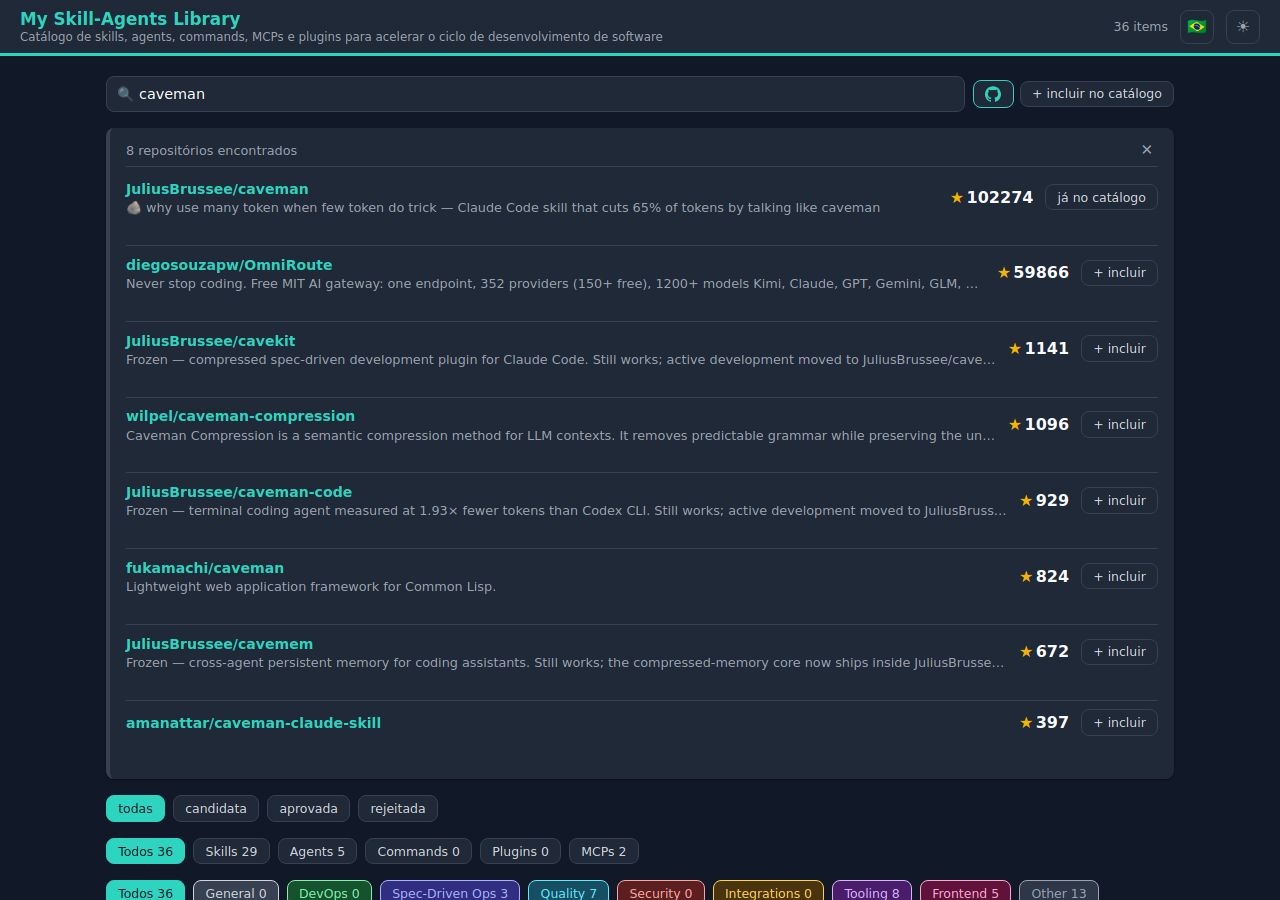
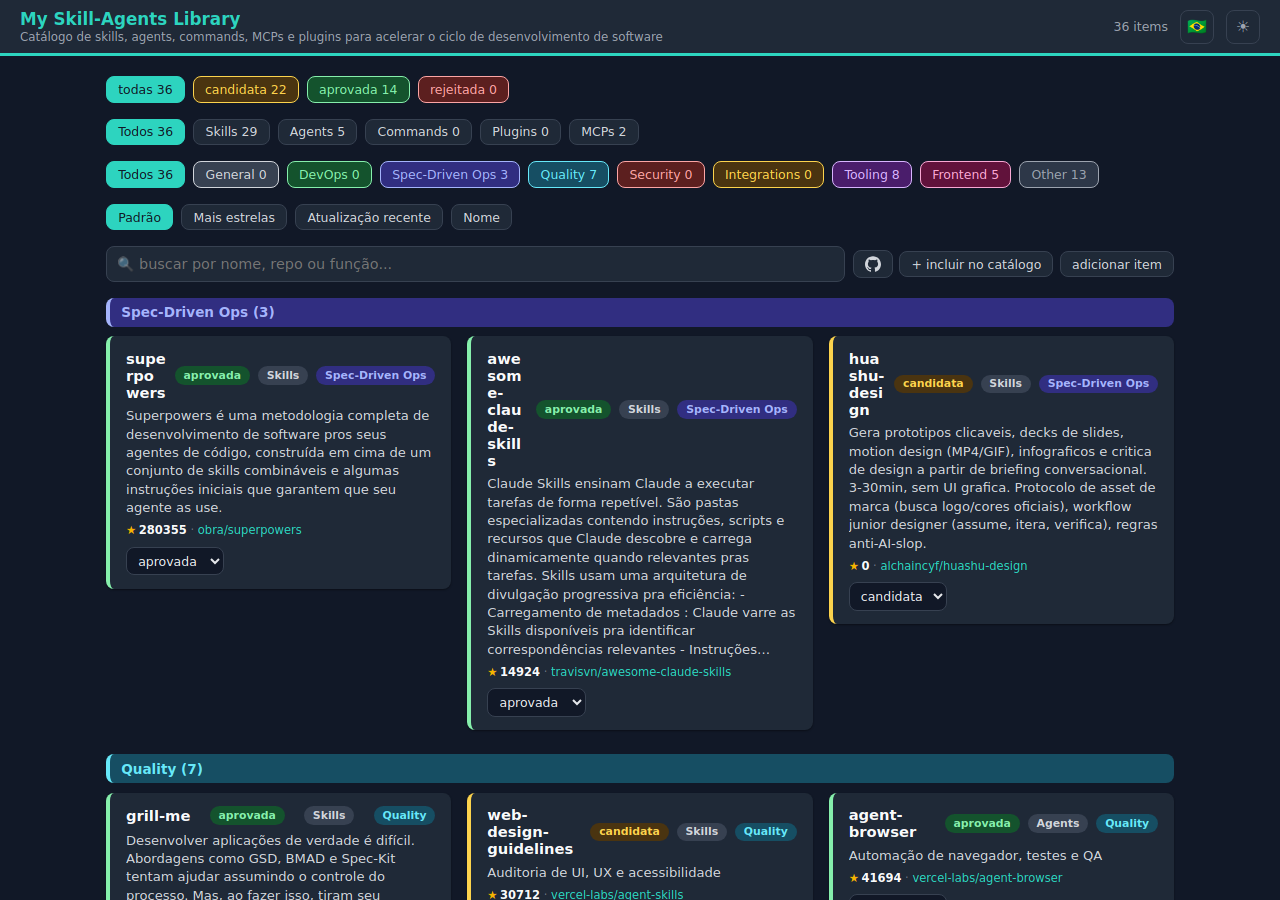
feat: color-code status pills, move search below pills, modal add-item
- status filter pills (candidata/aprovada/rejeitada) now colored like
  their card badge, same treatment purpose pills already had
- search box moved below the status/kind/purpose/sort pills
- add-item form is now a modal (matching the item-edit modal) opened
  via a new "adicionar item" button next to the existing
  "+ incluir no catálogo" quick-add, instead of a permanent inline form
- refreshed README screenshots and description to match

Claude-Session: https://claude.ai/code/session_015HJhdv2NVHp8ftTBC2Pkqs

Changed region(s): [[0.0625, 0.0622, 0.9375, 1.0], [0.0938, 0.7778, 0.3125, 0.8089], [0.75, 0.0933, 0.9062, 0.1244]]

diff --git a/src/generator.py b/src/generator.py
@@ -245,6 +245,8 @@ let ghError = "";
 let ghAddedRepos = {}; // full_name -> true, for "already added" state after a quick-add
 let sortBy = "default";
 let openModalId = null; // id of the item whose modal is open, or null
+let addModalOpen = false; // whether the "adicionar item" modal is open
+let addModalPrefillName = ""; // name to prefill when opening it from a search
 
 // ---- tema: claro/escuro/auto, persistido em localStorage -----------------
 function currentTheme() {
@@ -427,17 +429,32 @@ function renderSearchBox() {
   addBtn.type = "button";
   addBtn.className = "btn btn-sm search-add-btn";
   addBtn.textContent = t("addToCatalog");
-  addBtn.onclick = () => {
-    const nameInput = document.getElementById("add-field-name");
-    const form = document.getElementById("add-form");
-    if (nameInput && !nameInput.value) nameInput.value = searchQuery.trim();
-    if (form) form.scrollIntoView({ behavior: "smooth", block: "center" });
-    if (nameInput) nameInput.focus();
-  };
+  addBtn.onclick = () => openAddModal(searchQuery.trim());
   actions.appendChild(addBtn);
+
+  const newItemBtn = document.createElement("button");
+  newItemBtn.type = "button";
+  newItemBtn.className = "btn btn-sm search-newitem-btn";
+  newItemBtn.textContent = t("addItemHeading");
+  newItemBtn.onclick = () => openAddModal("");
+  actions.appendChild(newItemBtn);
 
   wrap.appendChild(actions);
   return wrap;
+}
+
+function openAddModal(prefillName) {
+  addModalOpen = true;
+  addModalPrefillName = prefillName || "";
+  render();
+  const nameInput = document.getElementById("add-field-name");
+  if (nameInput) nameInput.focus();
+}
+
+function closeAddModal() {
+  addModalOpen = false;
+  addModalPrefillName = "";
+  render();
 }
 
 // Live GitHub repo search (github.com/search only filters the catalog we
@@ -593,21 +610,12 @@ function renderGithubResults() {
 }
 
 function renderFilters() {
-  const filters = document.createElement("div");
-  filters.className = "filters";
-  [null].concat(STATUSES).forEach((s) => {
-    const btn = document.createElement("button");
-    btn.type = "button";
-    btn.textContent = s === null ? t("filterAll") : statusLabel(s);
-    const active = s === null ? filterStatus === null : s === filterStatus;
-    btn.className = "btn btn-sm" + (active ? " btn-primary" : "");
-    btn.onclick = () => {
-      filterStatus = s;
-      render();
-    };
-    filters.appendChild(btn);
-  });
-  return filters;
+  return renderPillRow(
+    "filters", t("filterAll"), STATUSES, (s) => statusLabel(s), filterStatus,
+    (s) => { filterStatus = s; render(); },
+    (s) => countBy(items, "status", s),
+    (s) => "badge-" + s
+  );
 }
 
 function sortItems(list) {
@@ -680,10 +688,27 @@ function renderSortFilter() {
   );
 }
 
-function renderAddForm() {
+function renderAddModal() {
+  const overlay = document.createElement("div");
+  overlay.className = "modal-overlay";
+  overlay.onclick = (e) => {
+    if (e.target === overlay) closeAddModal();
+  };
+
+  const modal = document.createElement("div");
+  modal.className = "modal";
+  overlay.appendChild(modal);
+
+  const closeBtn = document.createElement("button");
+  closeBtn.type = "button";
+  closeBtn.className = "modal-close";
+  closeBtn.textContent = "✕";
+  closeBtn.onclick = closeAddModal;
+  modal.appendChild(closeBtn);
+
   const form = document.createElement("form");
   form.id = "add-form";
-  form.className = "add-form card";
+  form.className = "add-form";
 
   const heading = document.createElement("h2");
   heading.textContent = t("addItemHeading");
@@ -701,6 +726,7 @@ function renderAddForm() {
     input.type = "text";
     input.name = field;
     input.id = "add-field-" + field;
+    if (field === "name") input.value = addModalPrefillName;
     label.appendChild(input);
     grid.appendChild(label);
     inputs[field] = input;
@@ -723,9 +749,13 @@ function renderAddForm() {
     EDITABLE.forEach((f) => {
       body[f] = inputs[f].value;
     });
-    call("add", body).then(reload, (ex) => handleError(ex, err));
+    call("add", body).then(() => {
+      closeAddModal();
+      reload();
+    }, (ex) => handleError(ex, err));
   };
-  return form;
+  modal.appendChild(form);
+  return overlay;
 }
 
 function render() {
@@ -740,14 +770,13 @@ function render() {
   const container = document.createElement("div");
   container.className = "container";
 
-  container.appendChild(renderSearchBox());
-  const ghResultsEl = renderGithubResults();
-  if (ghResultsEl) container.appendChild(ghResultsEl);
   container.appendChild(renderFilters());
   container.appendChild(renderKindFilter());
   container.appendChild(renderPurposeFilter());
   container.appendChild(renderSortFilter());
-  container.appendChild(renderAddForm());
+  container.appendChild(renderSearchBox());
+  const ghResultsEl = renderGithubResults();
+  if (ghResultsEl) container.appendChild(ghResultsEl);
 
   const q = searchQuery.trim().toLowerCase();
   const filtered = items.filter(
@@ -767,6 +796,7 @@ function render() {
 
   const openItem = items.find((i) => i.id === openModalId);
   if (openItem) app.appendChild(renderModal(openItem));
+  if (addModalOpen) app.appendChild(renderAddModal());
 
   if (restoreSearchFocus) {
     const newInput = app.querySelector(".search-input");
@@ -1073,6 +1103,7 @@ function closeModal() {
 
 document.addEventListener("keydown", (e) => {
   if (e.key === "Escape" && openModalId !== null) closeModal();
+  if (e.key === "Escape" && addModalOpen) closeAddModal();
 });
 
 document.addEventListener("DOMContentLoaded", () => {
@@ -1473,6 +1504,14 @@ button.pill-purpose-other        { background: var(--c-other-bg);        color: 
 button.pill-purpose-general.btn-primary, button.pill-purpose-devops.btn-primary, button.pill-purpose-spec-ops.btn-primary,
 button.pill-purpose-quality.btn-primary, button.pill-purpose-security.btn-primary, button.pill-purpose-integrations.btn-primary,
 button.pill-purpose-tooling.btn-primary, button.pill-purpose-frontend.btn-primary, button.pill-purpose-other.btn-primary {
+  box-shadow: inset 0 0 0 2px currentColor;
+}
+
+/* ---- Pills de filtro por status, mesma cor do badge/borda do card ---- */
+button.badge-candidata { background: var(--c-candidata-bg); color: var(--c-candidata-fg); border-color: var(--c-candidata-fg); }
+button.badge-aprovada  { background: var(--c-aprovada-bg);  color: var(--c-aprovada-fg);  border-color: var(--c-aprovada-fg); }
+button.badge-rejeitada { background: var(--c-rejeitada-bg); color: var(--c-rejeitada-fg); border-color: var(--c-rejeitada-fg); }
+button.badge-candidata.btn-primary, button.badge-aprovada.btn-primary, button.badge-rejeitada.btn-primary {
   box-shadow: inset 0 0 0 2px currentColor;
 }
 

diff --git a/README.md b/README.md
@@ -71,7 +71,10 @@ The grid is not one flat list: it's one section per purpose, each with a
 colored header matching that purpose's badge, so the shape of your queue
 (mostly Tooling? nothing in Security?) is visible at a glance. Filter by
 status, kind, or purpose; sort by most stars, most recently updated, or
-name; every filter and the sort combine.
+name; every filter and the sort combine. The status pills (candidata /
+aprovada / rejeitada) are colored the same as the status badge on every
+card, so a pill and its matching cards read as one color at a glance —
+same treatment the purpose pills already had.
 
 ### Pulls real GitHub data
 
@@ -88,6 +91,9 @@ Click any card and every field opens in one place: name, repo, function
 (a resizable ~10-line text area, not a cramped one-liner), dev note, status,
 kind, purpose, your personal note, plus save/delete/refresh. Matches My
 Harness Library's click-to-edit pattern instead of a wall of inline inputs.
+Adding a new item works the same way now — no permanent inline form taking
+up space, just a button that opens the same kind of modal, empty or
+prefilled from a search.
 
 ![Edit modal open on a catalog item, showing every field and the save/delete/refresh-from-GitHub actions](docs/screenshot-modal.png)
 
@@ -102,14 +108,16 @@ instead of waiting for the next regeneration pass.
 
 ### Live search, and a way to find what isn't cataloged yet
 
-A search box filters the grid by name, repo, or function as you type,
-combining with the status/kind/purpose filters already in place. Next to it,
-a GitHub button queries `api.github.com/search/repositories` straight from
-the browser (unauthenticated, no backend involved) and lists results inline:
-name, description, star count, a link to the repo, and a per-result
-"+ incluir" that adds it to the catalog on the spot, already marked if it's
-there. There's also a "+ incluir no catálogo" shortcut that jumps straight
-to the add-item form with your search term as a starting name.
+Below the status/kind/purpose/sort pills, a search box filters the grid by
+name, repo, or function as you type. Next to it, a GitHub button queries
+`api.github.com/search/repositories` straight from the browser
+(unauthenticated, no backend involved) and lists results inline: name,
+description, star count, a link to the repo, and a per-result "+ incluir"
+that adds it to the catalog on the spot, already marked if it's there.
+Two more buttons sit beside the search field: "+ incluir no catálogo" opens
+the add-item modal prefilled with your search term as a starting name, and
+"adicionar item" opens the same modal empty, for a manual entry with no
+search involved.
 
 ### Portuguese, English, or Spanish UI
 
@@ -131,14 +139,13 @@ persist an explicit choice in `localStorage`.
 
 <picture>
   <source media="(prefers-color-scheme: dark)" srcset="docs/screenshot-dark.png">
-  <img alt="My Skill-Agents Library: a live search box with inline GitHub search results (name, description, stars, add button), 36 items in purpose-grouped sections colored by category, status/kind/purpose/sort filter pills, and a card grid" src="docs/screenshot-light.png">
+  <img alt="My Skill-Agents Library: status/kind/purpose/sort filter pills (status and purpose pills colored to match their cards), a search box below them with GitHub-search and add-item buttons, 36 items in purpose-grouped sections colored by category, and a card grid" src="docs/screenshot-light.png">
 </picture>
 
 The header carries the title, an item count, and the theme toggle. Below it:
-the search box with its GitHub-search and quick-add buttons (shown here with
-live GitHub results open), status pills, kind pills, purpose pills (colored
-to match), sort pills, the add-item form, then one colored section per
-purpose holding that purpose's cards.
+status pills (colored), kind pills, purpose pills (colored to match), sort
+pills, then the search box with its GitHub-search, quick-add and add-item
+buttons, then one colored section per purpose holding that purpose's cards.
 
 ---
 
